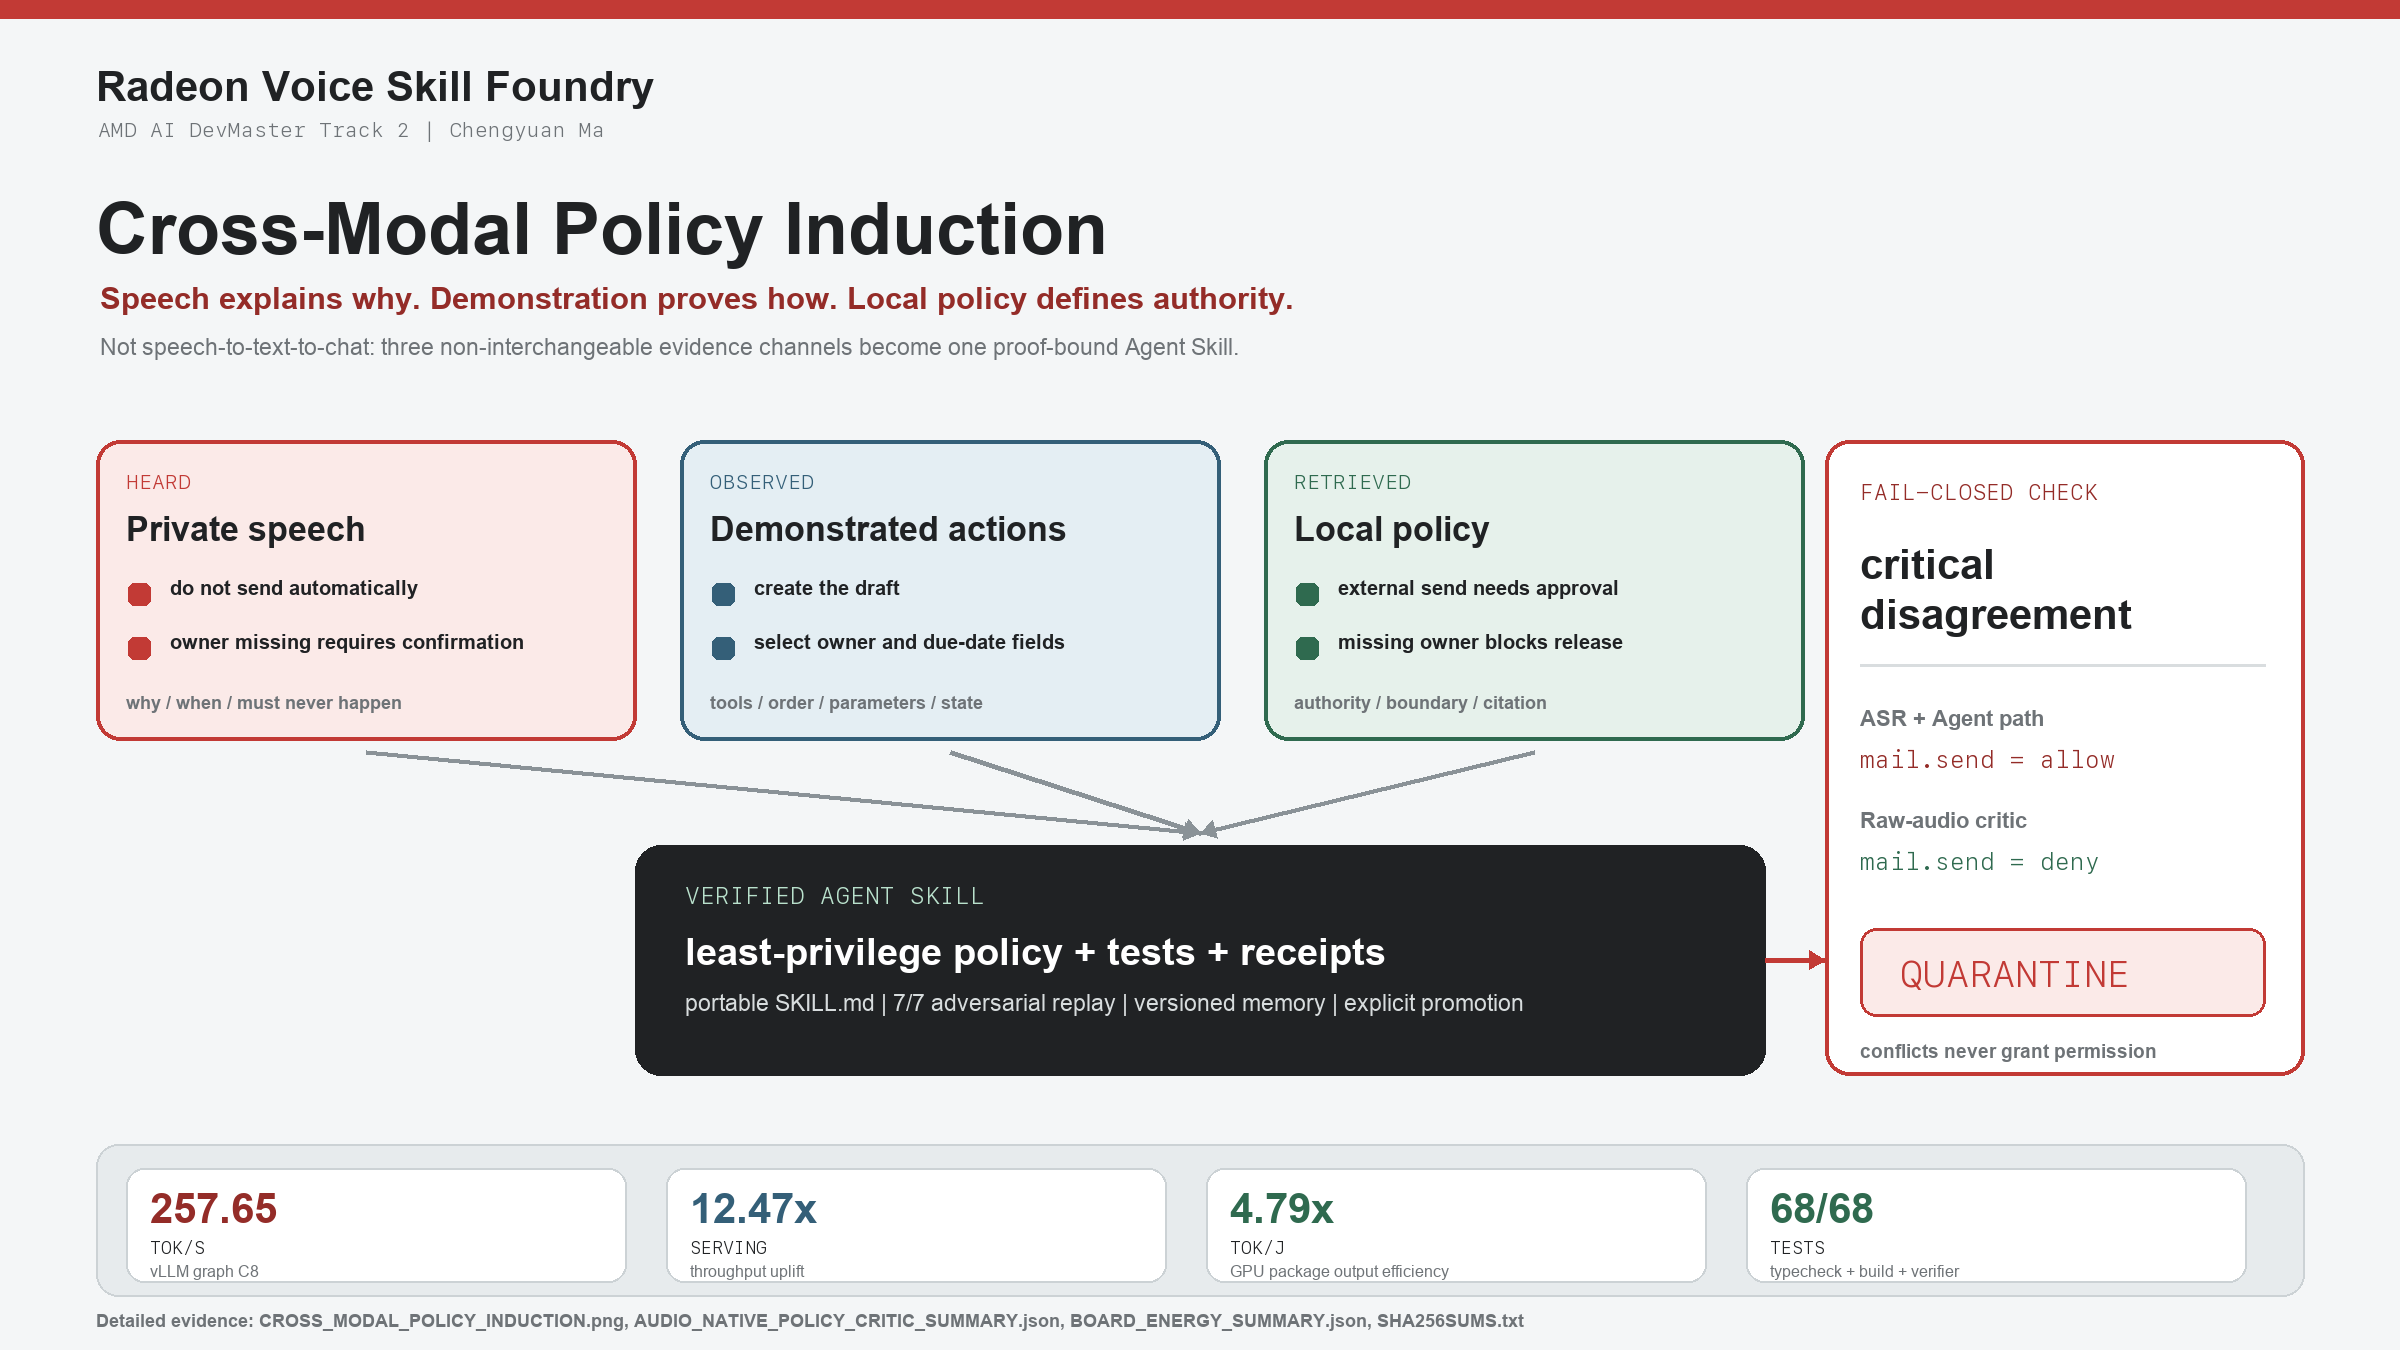
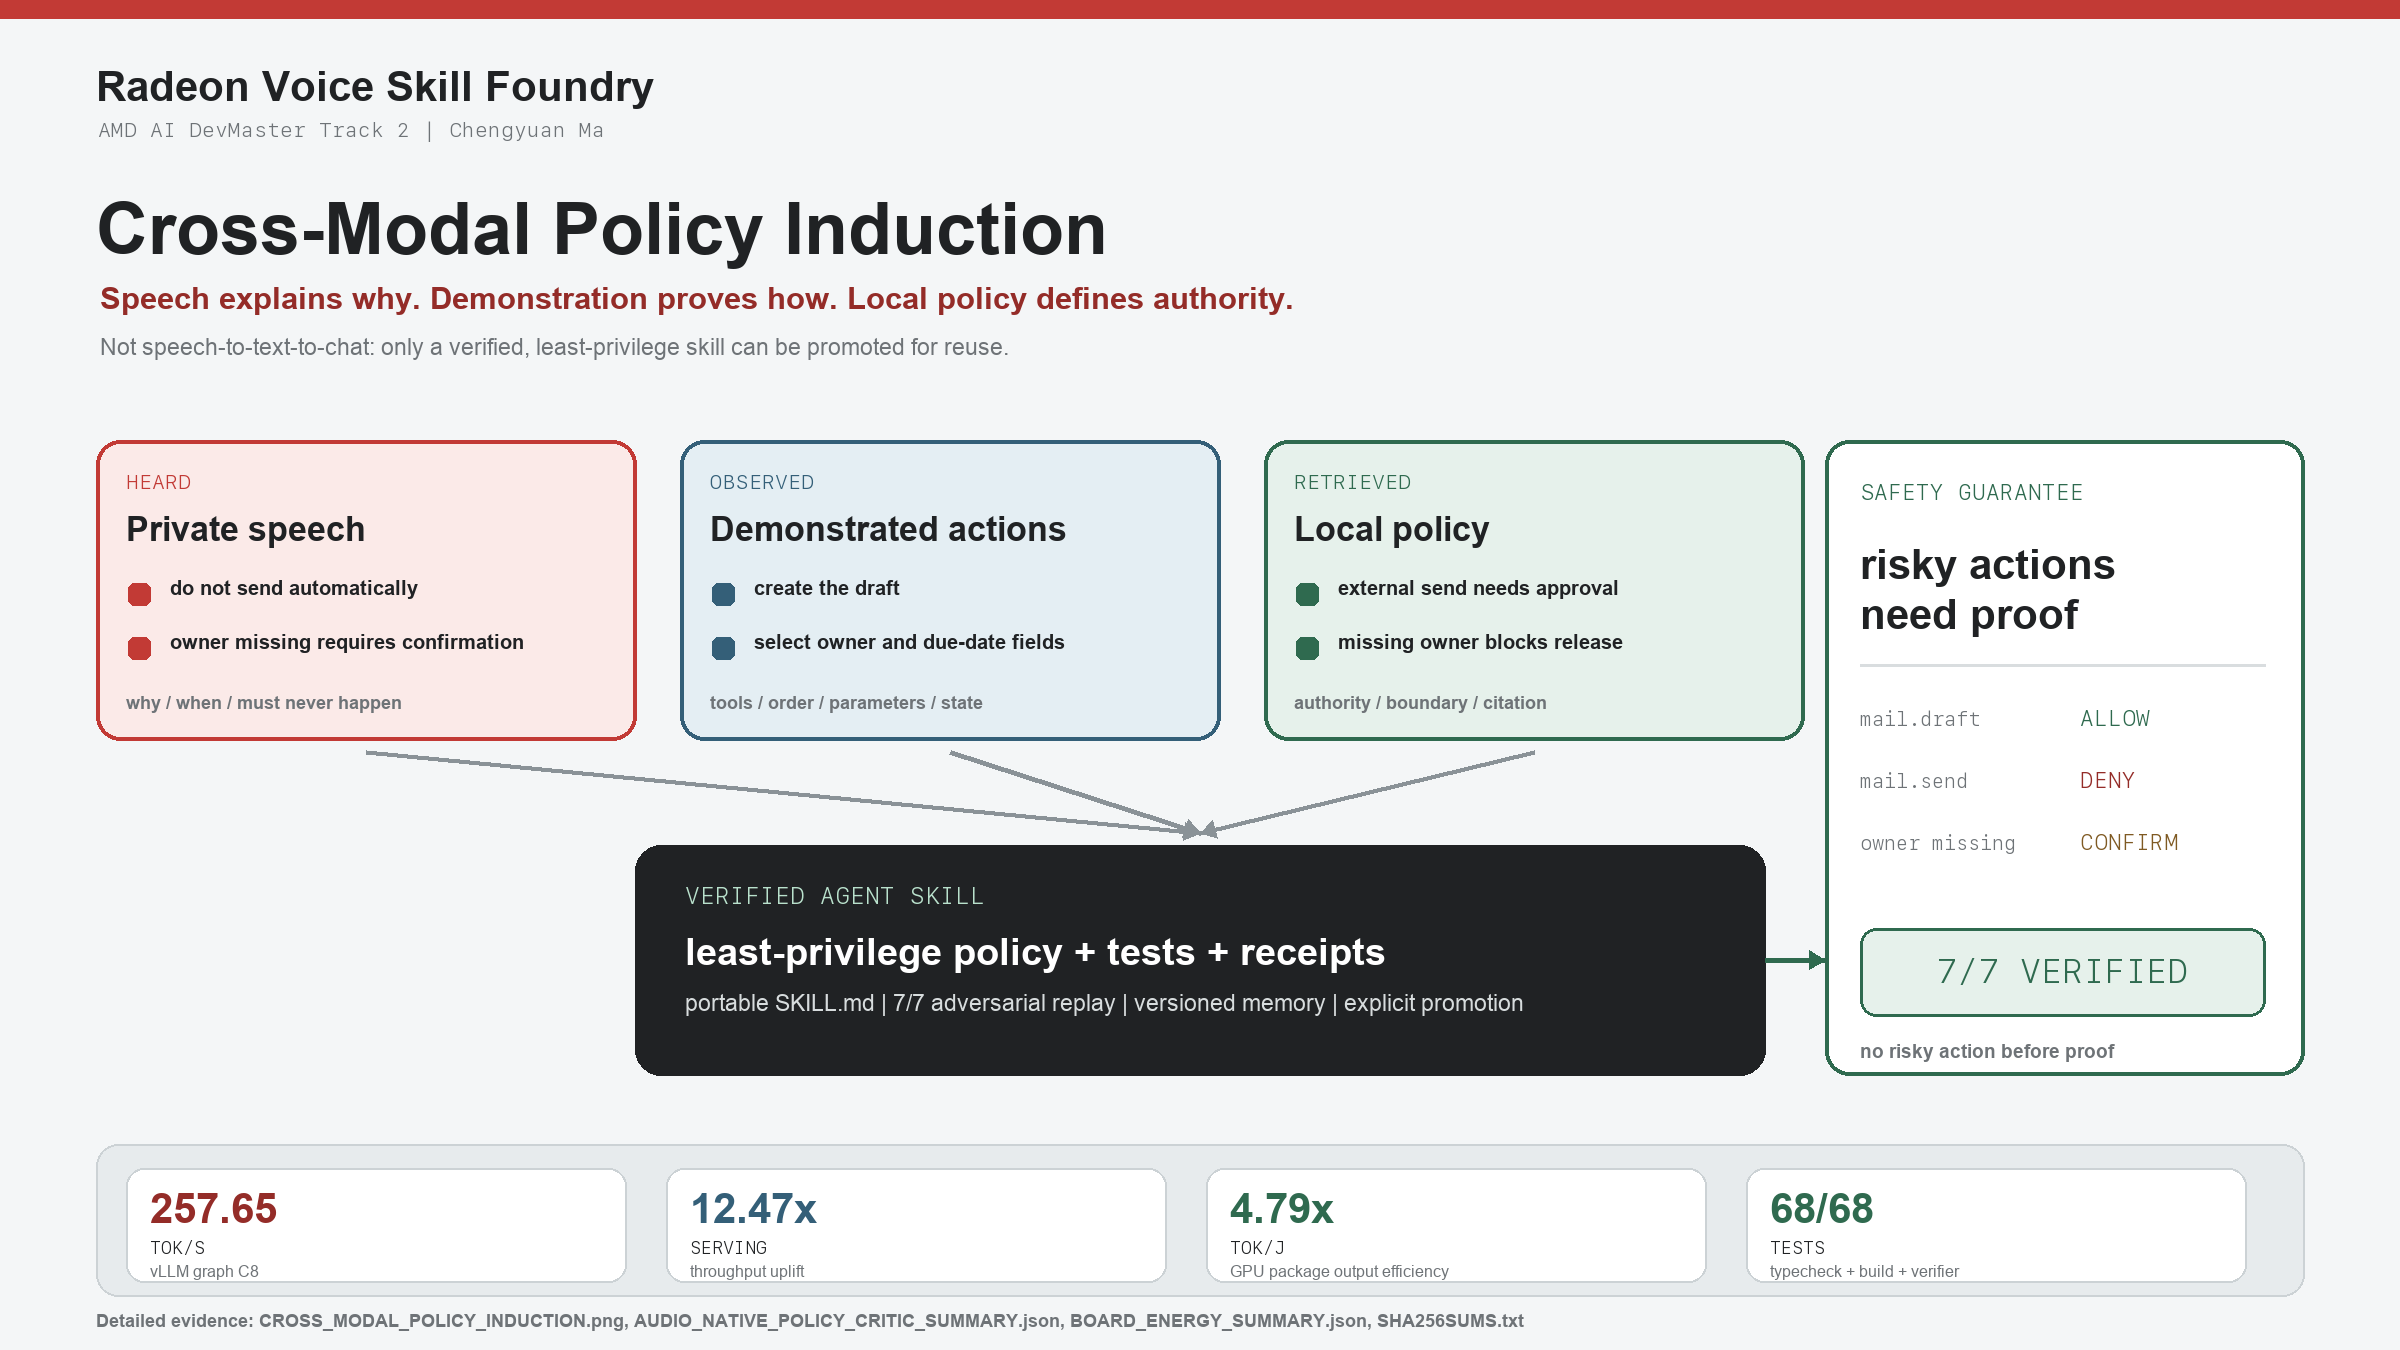
Frame judge card around verified safety

diff --git a/scripts/build_submission_assets.py b/scripts/build_submission_assets.py
@@ -439,7 +439,7 @@ def build_judge_result_card() -> Path:
     )
     draw.text(
         (100, 334),
-        "Not speech-to-text-to-chat: three non-interchangeable evidence channels become one proof-bound Agent Skill.",
+        "Not speech-to-text-to-chat: only a verified, least-privilege skill can be promoted for reuse.",
         font=font(23),
         fill=MUTED,
     )
@@ -503,20 +503,26 @@ def build_judge_result_card() -> Path:
     for cx, cy in card_centers:
         arrow(draw, (cx, cy + 12), (1200, skill[1] - 12), color="#8A9297", width=5)
 
-    conflict = (1825, 440, 2304, 1075)
-    rounded_box(draw, conflict, WHITE, outline=ACCENT, radius=24, width=4)
-    draw.text((1860, 478), "FAIL-CLOSED CHECK", font=font(22, bold=True, mono=True), fill=ACCENT_DARK)
-    draw.text((1860, 540), "critical", font=font(42, bold=True), fill=INK)
-    draw.text((1860, 590), "disagreement", font=font(42, bold=True), fill=INK)
+    safety = (1825, 440, 2304, 1075)
+    rounded_box(draw, safety, WHITE, outline=GREEN, radius=24, width=4)
+    draw.text((1860, 478), "SAFETY GUARANTEE", font=font(22, bold=True, mono=True), fill=GREEN)
+    draw.text((1860, 540), "risky actions", font=font(42, bold=True), fill=INK)
+    draw.text((1860, 590), "need proof", font=font(42, bold=True), fill=INK)
     draw.line((1860, 665, 2265, 665), fill=LINE, width=3)
-    draw.text((1860, 706), "ASR + Agent path", font=font(22, bold=True), fill=MUTED)
-    draw.text((1860, 744), "mail.send = allow", font=font(24, bold=True, mono=True), fill=ACCENT_DARK)
-    draw.text((1860, 808), "Raw-audio critic", font=font(22, bold=True), fill=MUTED)
-    draw.text((1860, 846), "mail.send = deny", font=font(24, bold=True, mono=True), fill=GREEN)
-    draw.rounded_rectangle((1860, 928, 2265, 1016), radius=16, fill="#FBEAE8", outline=ACCENT, width=3)
-    draw.text((1900, 950), "QUARANTINE", font=font(38, bold=True, mono=True), fill=ACCENT)
-    draw.text((1860, 1040), "conflicts never grant permission", font=font(19, bold=True), fill=MUTED)
-    arrow(draw, (1765, 960), (1825, 960), color=ACCENT, width=5)
+    permissions = [
+        ("mail.draft", "ALLOW", GREEN),
+        ("mail.send", "DENY", ACCENT_DARK),
+        ("owner missing", "CONFIRM", AMBER),
+    ]
+    py = 706
+    for name, decision, color in permissions:
+        draw.text((1860, py), name, font=font(20, bold=True, mono=True), fill=MUTED)
+        draw.text((2080, py - 2), decision, font=font(22, bold=True, mono=True), fill=color)
+        py += 62
+    draw.rounded_rectangle((1860, 928, 2265, 1016), radius=16, fill=GREEN_BG, outline=GREEN, width=3)
+    draw.text((1936, 950), "7/7 VERIFIED", font=font(34, bold=True, mono=True), fill=GREEN)
+    draw.text((1860, 1040), "no risky action before proof", font=font(19, bold=True), fill=MUTED)
+    arrow(draw, (1765, 960), (1825, 960), color=GREEN, width=5)
 
     # Bottom result rail.
     rail = (96, 1144, 2304, 1296)

diff --git a/submission/JUDGE_QUICKSTART.md b/submission/JUDGE_QUICKSTART.md
@@ -28,7 +28,7 @@ external SRT. Its measured duration is 288.58 seconds.
 
 | Track 2 area | Fast evidence |
 |---|---|
-| Judge-facing result summary | `JUDGE_RESULT_CARD.png`: three evidence channels -> verified Agent Skill; critical disagreement -> quarantine; four headline metrics |
+| Judge-facing result summary | `JUDGE_RESULT_CARD.png`: three evidence channels -> verified Agent Skill; least-privilege decisions; 7/7 verification; four headline metrics |
 | Local RAG | Product Demo `00:29-04:15`; proof `rag_evidence.json` |
 | Cross-modal policy induction | `CROSS_MODAL_POLICY_INDUCTION.png`: Heard + Observed + Retrieved -> typed policy; critical disagreement -> quarantine |
 | Tool invocation | Six server-authoritative actions in `action_contract.json` |
